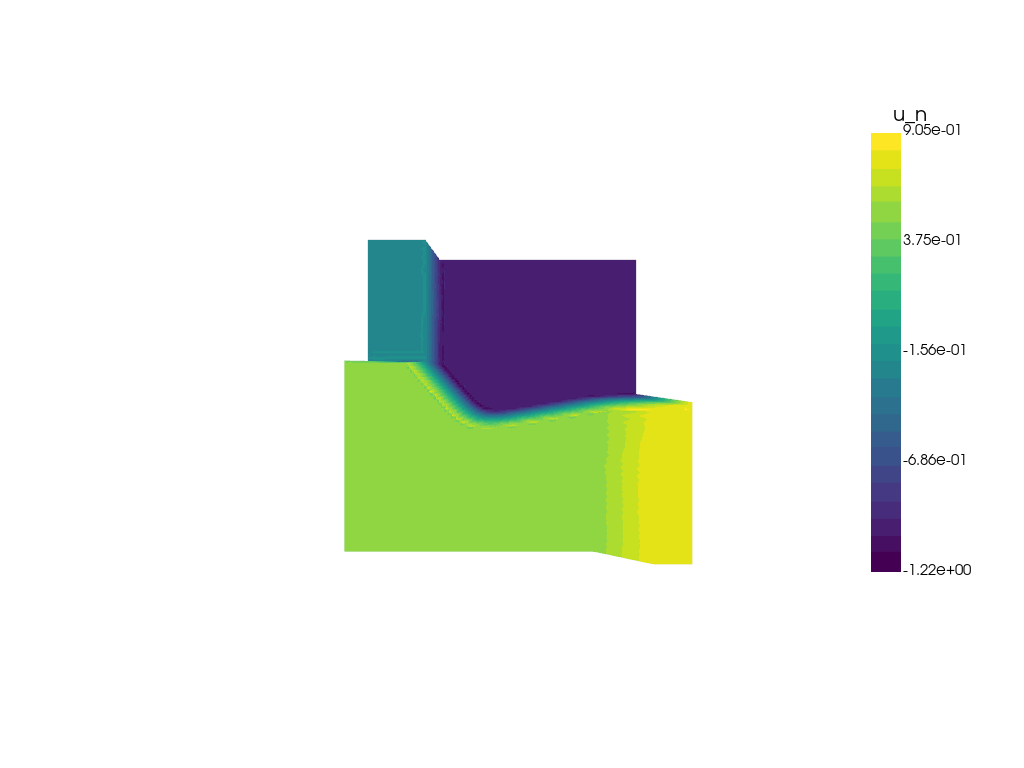
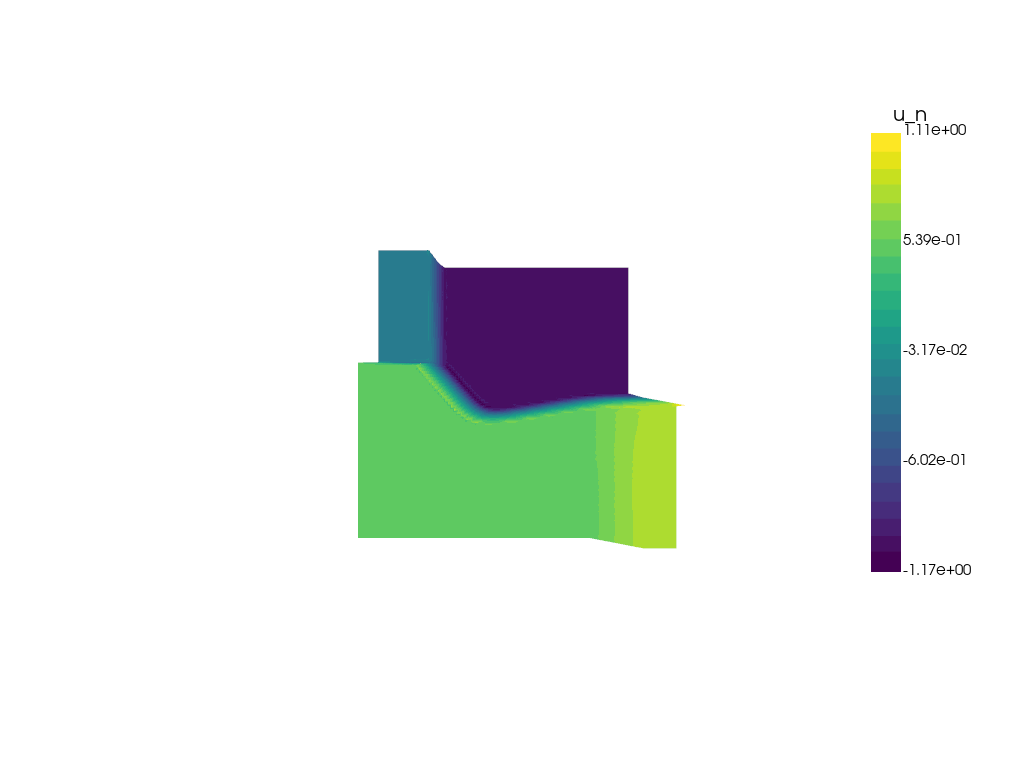
BDF2 implemented

diff --git a/Code/Burgers_equation/Exact_Burger_RV.py b/Code/Burgers_equation/Exact_Burger_RV.py
@@ -95,15 +95,9 @@ u_old = fem.Function(V)
 u_old.name = "u_old"
 u_old.interpolate(initial_condition)
 
-
-
-# CFL = 0.5
-# t = 0  # Start time
-# T = 0.5 # Final time
-# dt = 0.01
-# num_steps = int(np.ceil(T/dt))
-# Cvel = 0.25
-# CRV = 1.0
+u_old_old = fem.Function(V)
+u_old_old.name = "u_old_old"
+u_old_old.interpolate(initial_condition)
 
 CFL = 0.2
 t = 0  # Start time
@@ -111,7 +105,7 @@ T = 0.5 # Final time
 dt = 0.01
 num_steps = int(np.ceil(T/dt))
 Cvel = 0.25
-CRV = 4.0
+CRV = 10.0
 
 rv = RV(Cvel, CRV, domain)
 
@@ -166,56 +160,31 @@ if PLOT:
 
 h_CG = get_nodal_h(domain)
 
-# Create a function to interpolate the exact solution
-u_exact_boundary = fem.Function(V)
-u_exact_boundary.interpolate(lambda x: exact_solution(x, dt))
-
-# Apply the interpolated exact solution on the boundary
-bc = fem.dirichletbc(u_exact_boundary, boundary_dofs)
-# Variational problem and solver
 u, v = ufl.TrialFunction(V), ufl.TestFunction(V)
-F = (uh*v *ufl.dx -
-     u_n*v *ufl.dx + 
-     0.5*dt*ufl.dot(velocity_field(uh), ufl.grad(uh))*v*ufl.dx + 
-     0.5*dt*ufl.dot(velocity_field(u_n), ufl.grad(u_n))*v*ufl.dx)
 
-nonlin_problem = NonlinearProblem(F, uh, bcs=[bc])
-nonlin_solver = NewtonSolver(MPI.COMM_WORLD, nonlin_problem)
-nonlin_solver.max_it = 100  # Increase maximum number of iterations
-nonlin_solver.rtol = 1e-4
-nonlin_solver.report = True
-
-#Take GFEM STEP
-t += dt
-n, converged = nonlin_solver.solve(uh)
-assert (converged)
-# uh.x.scatter_forward()
-
-# Update solution at previous time step (u_n)
-u_n.x.array[:] = uh.x.array
-# Write solution to file
-# xdmf.write_function(uh, t)
-
-
-
-for i in tqdm(range(num_steps-1)):
+for i in tqdm(range(num_steps)):
+    t += dt
     # Create a function to interpolate the exact solution
     u_exact_boundary = fem.Function(V)
     u_exact_boundary.interpolate(lambda x: exact_solution(x, t))
 
     # Apply the interpolated exact solution on the boundary
     bc = fem.dirichletbc(u_exact_boundary, boundary_dofs)
-    t += dt
 
     # a_R = u*v*ufl.dx
     # L_R = 1/dt*u_n * v * ufl.dx - 1/dt* u_old * v *ufl.dx + ufl.dot(velocity_field(u_n),ufl.grad(u_n))* v * ufl.dx
     # F_R = (a_R - L_R)
-
-
-    # F_R = (RH*v*ufl.dx - 1/dt*u_n*v *ufl.dx + 1/dt*u_old*v*ufl.dx -
-    #     0.5*ufl.dot(velocity_field(u_n), ufl.grad(u_n))*v*ufl.dx - 
-    #     0.5*ufl.dot(velocity_field(u_old), ufl.grad(u_old))*v*ufl.dx)
-    F_R = (RH*v*ufl.dx - 1/dt*u_n*v *ufl.dx + 1/dt*u_old*v*ufl.dx - ufl.dot(velocity_field(u_n), ufl.grad(u_n))*v*ufl.dx)
+    """ BDF1 """
+    # F_R = (RH*v*ufl.dx - 
+    #        1/dt*u_n*v *ufl.dx + 
+    #        1/dt*u_old*v*ufl.dx - 
+    #        ufl.dot(velocity_field(u_n), ufl.grad(u_n))*v*ufl.dx)
+    """ BDF2 """
+    F_R = (RH*v*ufl.dx - 
+           3/(2*dt)*u_n*v *ufl.dx +
+           4/(2*dt)*u_old*v*ufl.dx - 
+           1/(2*dt)*u_old_old*v*ufl.dx - 
+           ufl.dot(velocity_field(u_n), ufl.grad(u_n))*v*ufl.dx)
     R_problem = NonlinearProblem(F_R, RH, bcs=[bc0])
     # Rh = R_problem.solve()
 
@@ -250,6 +219,7 @@ for i in tqdm(range(num_steps-1)):
     uh.x.scatter_forward()
 
     # Update solution at previous time step (u_n)
+    u_old_old.x.array[:] = u_old.x.array
     u_old.x.array[:] = u_n.x.array
     u_n.x.array[:] = uh.x.array
 
